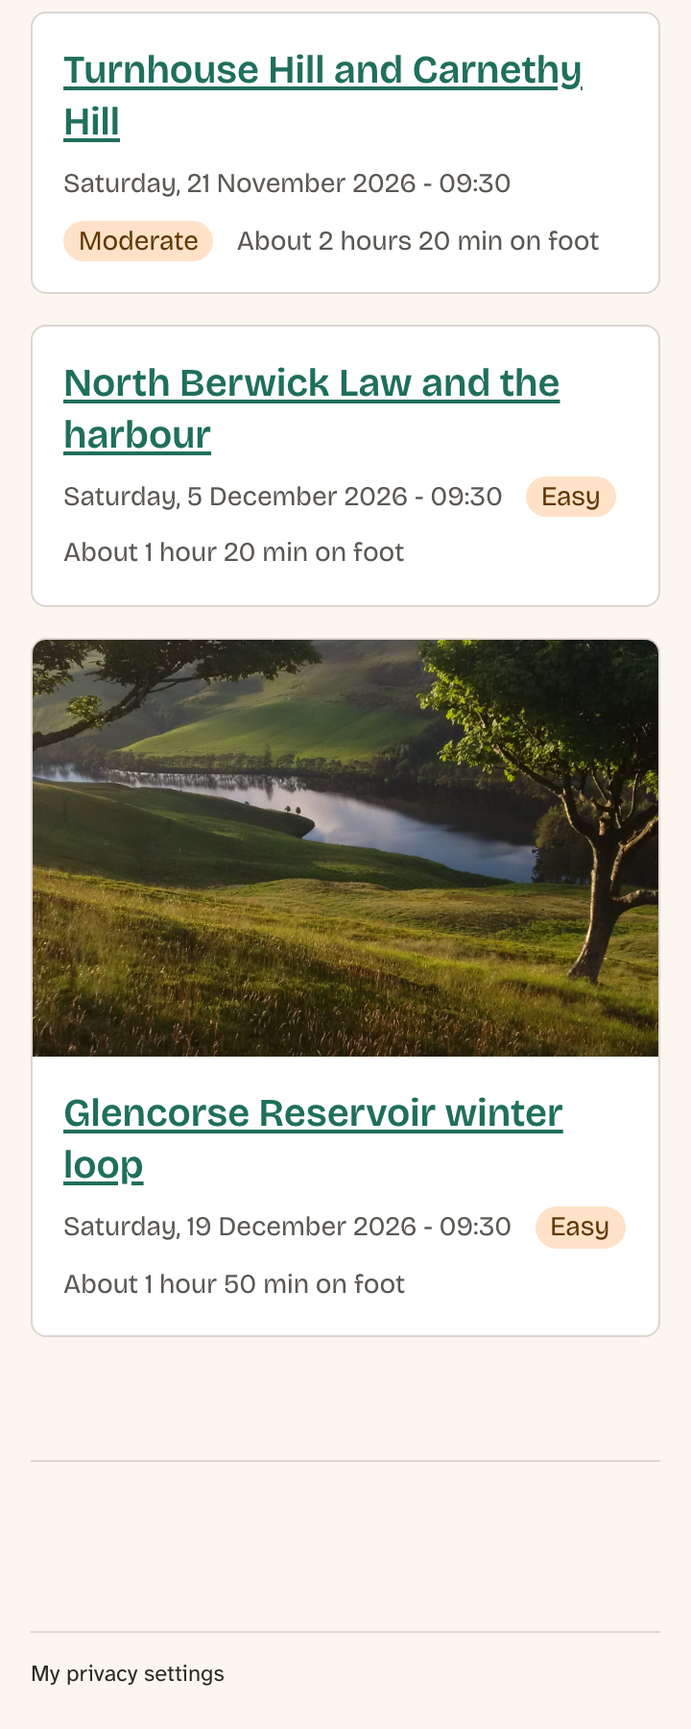
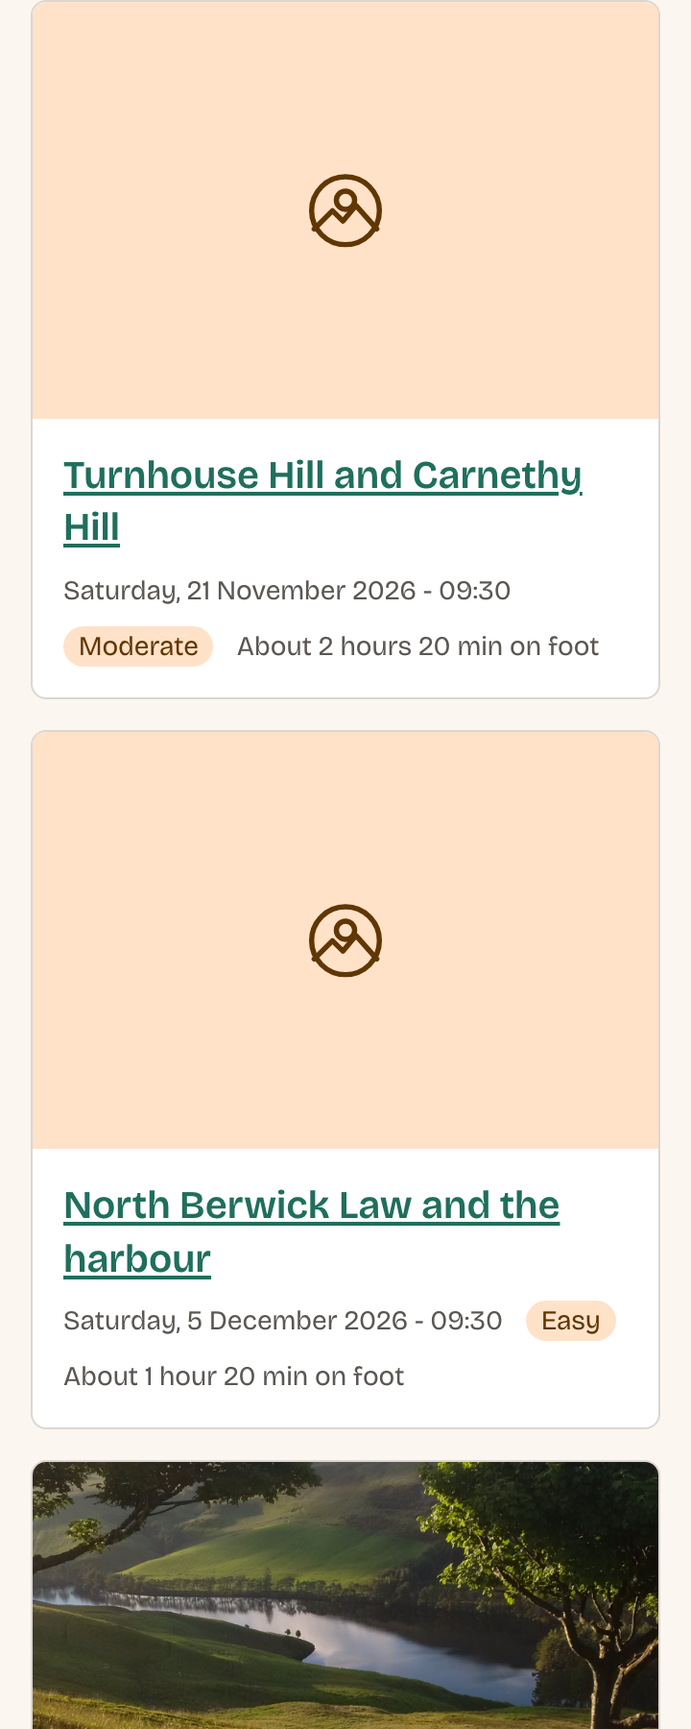
Chapter 13: a default photo for hikes without one
The Hike card always has a photo area. Without a photo, it draws the
club's default photo from Chapter 4 as inline SVG in the color roles, so
it follows dark mode, hidden from screen readers. On the core site
(steps 02 and 03) and in the Canvas card (step 04). The :has() rule that
made a photo-less card one column is gone. A new subsection says why the
fallback is in the component and not a default value on Book 1's media
field. The default photo is now CC BY-SA 4.0 or GPL-2.0-or-later.
Figures 13.2 to 13.5, 13.10 and 13.11 retaken.

diff --git a/code/chapter13/steps/02-variants/core/lens_trail/components/hike-card/hike-card.css b/code/chapter13/steps/02-variants/core/lens_trail/components/hike-card/hike-card.css
@@ -24,13 +24,20 @@
   .hike-card__photo {
     order: -1;
 
-    & img {
+    & :is(img, svg) {
       display: block;
       width: 100%;
       height: auto;
       aspect-ratio: 3 / 2;
       object-fit: cover;
     }
+  }
+
+  /* The default photo takes its colors from the color roles, so it follows
+     dark mode like the rest of the card. */
+  .hike-card__default-photo {
+    background: var(--color-tint);
+    color: var(--color-on-tint);
   }
 
   .hike-card__text {
@@ -66,7 +73,7 @@
      container query can't style the container itself, so it's the layout
      inside the card that changes. */
   @container (inline-size >= 30rem) {
-    [data-component-variant="beside"] .hike-card__layout:has(.hike-card__photo) {
+    [data-component-variant="beside"] .hike-card__layout {
       grid-template-columns: 2fr 3fr;
       align-items: start;
     }

diff --git a/code/chapter13/steps/03-styleguide/core/lens_trail/components/hike-card/hike-card.css b/code/chapter13/steps/03-styleguide/core/lens_trail/components/hike-card/hike-card.css
@@ -24,13 +24,20 @@
   .hike-card__photo {
     order: -1;
 
-    & img {
+    & :is(img, svg) {
       display: block;
       width: 100%;
       height: auto;
       aspect-ratio: 3 / 2;
       object-fit: cover;
     }
+  }
+
+  /* The default photo takes its colors from the color roles, so it follows
+     dark mode like the rest of the card. */
+  .hike-card__default-photo {
+    background: var(--color-tint);
+    color: var(--color-on-tint);
   }
 
   .hike-card__text {
@@ -66,7 +73,7 @@
      container query can't style the container itself, so it's the layout
      inside the card that changes. */
   @container (inline-size >= 30rem) {
-    [data-component-variant="beside"] .hike-card__layout:has(.hike-card__photo) {
+    [data-component-variant="beside"] .hike-card__layout {
       grid-template-columns: 2fr 3fr;
       align-items: start;
     }

diff --git a/book/13-single-directory-components.md b/book/13-single-directory-components.md
@@ -363,7 +363,7 @@ The contract grows by one slot and two **variants**:
  slots:
 +  photo:
 +    title: Photo
-+    description: The hike's photo, as an image Drupal has rendered. Optional.
++    description: The hike's photo, as an image Drupal has rendered. Optional. Without it, the card shows the club's default photo.
    facts:
      title: Facts
      description: The date, the difficulty and the walking time, rendered by Drupal.
@@ -384,7 +384,7 @@ A variant is a named version of the same component: same props, same slots, diff
 ```diff
 --- components/hike-card/hike-card.twig (before)
 +++ components/hike-card/hike-card.twig (after)
-@@ -3,17 +3,26 @@
+@@ -3,17 +3,38 @@
   * @file
   * The Hike card: a hike in a list.
   *
@@ -414,9 +414,21 @@ A variant is a named version of the same component: same props, same slots, diff
 +        {% endblock %}
 +      </div>
 +    </div>
-+    {% if photo %}
-+      <div class="hike-card__photo">{{ photo }}</div>
-+    {% endif %}
++    <div class="hike-card__photo">
++      {% if photo %}
++        {{ photo }}
++      {% else %}
++        {# No photo yet: the club's default photo, the logo on the tint color.
++           It's decoration, so screen readers skip it. #}
++        <svg class="hike-card__default-photo" viewBox="0 0 480 320" aria-hidden="true" focusable="false">
++          <g fill="none" stroke="currentColor" stroke-width="4" stroke-linejoin="round" stroke-linecap="round">
++            <circle cx="240" cy="160" r="26"/>
++            <circle cx="240" cy="152" r="7"/>
++            <path d="M216 174 L230 160 L238 168 L248 156 L264 174"/>
++          </g>
++        </svg>
++      {% endif %}
++    </div>
    </div>
  </article>
 ```
@@ -458,7 +470,19 @@ The node template hands over the photo and chooses the variant:
  {% endembed %}
 ```
 
-The photo is filled in the other way, as a value: `content.field_photo|render`. The `|render` is the empty-field trap from the chapter on Twig in depth again. A hike without a photo still has a `field_photo` key with cache information in it, which Twig counts as something. Rendered, it's an empty string, and the component's `{% if photo %}` leaves the photo's `div` out. That's two of the hikes on the test site.
+The photo is filled in the other way, as a value: `content.field_photo|render`. The `|render` is the empty-field trap from the chapter on Twig in depth again. A hike without a photo still has a `field_photo` key with cache information in it, which Twig counts as something. Rendered, it's an empty string, and the component's `{% if photo %}` sees nothing. That's two of the hikes on the test site.
+
+### When there's no photo
+
+What the card does then is the component's business. Leave the photo out, and a card without one is a different shape from its neighbors, with a hole where the design has a picture. So the design in Chapter 4 has a **default photo** for it: the club's logo in `color.on-tint` on `color.tint`. The component draws it in the `{% else %}`, in the diff above.
+
+Three choices in those few lines:
+
+- **Inline SVG, not an image file.** An `<img>` can't see the page's CSS, so a file would be sandstone in dark mode too. Inline, the SVG draws its lines in `currentColor`, and the CSS in the next section gives it the color roles (`.hike-card__default-photo`), so it follows the color scheme like the rest of the card.
+- **`aria-hidden="true"`.** The default photo says nothing about the hike, so it's decoration, and screen readers skip it. A real photo keeps its alt text.
+- **In the component, not in the content.** In the first book, the club's Photo field is a media reference, and Drupal's **Default image** setting only exists on plain image fields. A media reference can have a default value, but that's a real media item stored in every *new* hike: North Berwick would still have none, and the club's lists of photos would show the logo as one of them. The first book's chapter on media says so too. Missing content is something every component has to handle, so we handle it where the card is drawn.
+
+The design is in the book's repository as `design/default-photo.svg`, licensed as CC BY-SA 4.0 or GPL-2.0-or-later, so the theme can ship it.
 
 ### A card that knows its own width
 
@@ -493,13 +517,20 @@ Now the CSS. A media query asks how wide the *screen* is, but the card doesn't c
   .hike-card__photo {
     order: -1;
 
-    & img {
+    & :is(img, svg) {
       display: block;
       width: 100%;
       height: auto;
       aspect-ratio: 3 / 2;
       object-fit: cover;
     }
+  }
+
+  /* The default photo takes its colors from the color roles, so it follows
+     dark mode like the rest of the card. */
+  .hike-card__default-photo {
+    background: var(--color-tint);
+    color: var(--color-on-tint);
   }
 
   .hike-card__text {
@@ -535,7 +566,7 @@ Now the CSS. A media query asks how wide the *screen* is, but the card doesn't c
      container query can't style the container itself, so it's the layout
      inside the card that changes. */
   @container (inline-size >= 30rem) {
-    [data-component-variant="beside"] .hike-card__layout:has(.hike-card__photo) {
+    [data-component-variant="beside"] .hike-card__layout {
       grid-template-columns: 2fr 3fr;
       align-items: start;
     }
@@ -543,13 +574,12 @@ Now the CSS. A media query asks how wide the *screen* is, but the card doesn't c
 }
 ```
 
-`container-type: inline-size` makes the card a container, and `@container (inline-size >= 30rem)` asks about the nearest container around the element being styled. 30rem is Chapter 3's container switch. Three things here took us a try or two:
+`container-type: inline-size` makes the card a container, and `@container (inline-size >= 30rem)` asks about the nearest container around the element being styled. 30rem is Chapter 3's container switch. Two things here took us a try or two:
 
 - **A container can't query itself.** The card is the container, so a rule inside `@container` can style what's in the card, but not the card. That's why the grid is on the new `hike-card__layout` inside it.
 - **A container doesn't take its width from what's inside it.** In a normal block that makes no difference. But in a wrapper that shrinks to fit its content, as the styleguide's is later in this chapter, the card shrank to nothing. `inline-size: 100%` fixes that.
-- `:has(.hike-card__photo)` keeps a card without a photo in one column, instead of an empty one on the left.
 
-Container queries have been in every major browser since February 2023, and widely available on Baseline's scale since August 2025. `:has()` became widely available in June 2026.
+Container queries have been in every major browser since February 2023, and widely available on Baseline's scale since August 2025.
 
 Last, a little space between the rows of a list, in `css/layout.css`, until the chapter on Views gives lists their own layout:
 
@@ -573,8 +603,8 @@ Last, a little space between the rows of a list, in `css/layout.css`, until the 
 
 After a cache rebuild, the Next hikes block has photos, beside the text, because the block is in the wide content column:
 
-![The Next hikes block with three cards: two with a photo on the left and the text on the right, and North Berwick's card with no photo, text only](images/13-front-cards.png)
-*Figure 13.2: Photos beside the text, because the cards have room. North Berwick has no photo yet, and its card is one column*
+![The Next hikes block with three cards, each with a picture on the left and the text on the right; North Berwick's picture is the club's logo on light sandstone](images/13-front-cards.png)
+*Figure 13.2: Photos beside the text, because the cards have room. North Berwick has no photo yet, so it gets the default photo, and the cards keep their shape*
 
 ## One card, two headings
 
@@ -669,7 +699,7 @@ slots:
   facts: '<div class="hike-card__date"><time datetime="2026-12-19T09:30:00Z">Saturday, 19 December 2026 at 09:30</time></div><div class="hike-card__difficulty">Easy</div><div class="hike-card__walking-time">About 1 hour 50 min on foot</div>'
 ```
 
-The module's README calls these `.story.` files, but the code looks for `.demo.`, and only those worked when we tried. For the photo, we used the club's default photo, `design/default-photo.svg`, copied into the component's `demo` folder, because the club's photos aren't the theme's to ship. There are four demos in the step: photo beside, photo on top, no photo, and a long title.
+The module's README calls these `.story.` files, but the code looks for `.demo.`, and only those worked when we tried. For the photo, we used the club's default photo, `design/default-photo.svg`, copied into the component's `demo` folder, because the club's photos aren't the theme's to ship. The No photo demo has no photo at all, and shows the component's own default photo. There are four demos in the step: photo beside, photo on top, no photo, and a long title.
 
 ![The styleguide showing the Hike card with the default photo on the left and the text on the right](images/13-styleguide-beside.png)
 *Figure 13.6: The Photo beside demo. Make the window narrower, and the photo moves on top*
@@ -820,7 +850,7 @@ The markup, with the club's tokens as Tailwind classes:
   moderate: 'Moderate'|t,
   hard: 'Hard'|t,
 } %}
-{% set beside = layout|default('top') == 'beside' and photo %}
+{% set beside = layout|default('top') == 'beside' %}
 <article{{ attributes.addClass('@container w-full overflow-hidden rounded-lg border border-club-border bg-club-surface') }}>
   <div class="grid{{ beside ? ' @[30rem]:grid-cols-[2fr_3fr] @[30rem]:items-start' }}">
     <div class="p-club-s">
@@ -837,12 +867,21 @@ The markup, with the club's tokens as Tailwind classes:
     </div>
     {% if photo.src %}
       <img src="{{ photo.src }}" alt="{{ photo.alt }}" width="{{ photo.width }}" height="{{ photo.height }}" loading="lazy" class="-order-1 aspect-[3/2] w-full object-cover">
+    {% else %}
+      {# No photo yet: the club's default photo, as on the core site. #}
+      <svg class="-order-1 aspect-[3/2] w-full bg-club-tint text-club-on-tint" viewBox="0 0 480 320" aria-hidden="true" focusable="false">
+        <g fill="none" stroke="currentColor" stroke-width="4" stroke-linejoin="round" stroke-linecap="round">
+          <circle cx="240" cy="160" r="26"/>
+          <circle cx="240" cy="152" r="7"/>
+          <path d="M216 174 L230 160 L238 168 L248 156 L264 174"/>
+        </g>
+      </svg>
     {% endif %}
   </div>
 </article>
 ```
 
-The structure is the core site's, so the two cards stay recognizably the same thing. `@container` and `@[30rem]:` are Tailwind's container queries, the same rule as ours, written as classes. The date arrives as text, and `|date('U')|format_date('long')` turns it into a date in the site's language. And the difficulty's labels go through `|t`, so the Spanish site can translate them.
+The structure is the core site's, so the two cards stay recognizably the same thing. `@container` and `@[30rem]:` are Tailwind's container queries, the same rule as ours, written as classes. The date arrives as text, and `|date('U')|format_date('long')` turns it into a date in the site's language. And the difficulty's labels go through `|t`, so the Spanish site can translate them. Without a photo, the card draws the same default photo as on the core site, with `bg-club-tint` and `text-club-on-tint`.
 
 Tailwind only builds the classes it finds in the theme's files, so the new classes need a build, as in the chapter on the Drupal CMS theme:
 
@@ -863,13 +902,13 @@ We gave the Home page a Next hikes section:
 
 1. Drag a **Section** from the library to below the hero. In its settings, set **Grid layout** to **33-33-33** and **Columns on mobile** to **1**, and turn on **Show header region**.
 2. Drag a **Heading** into the section's **Header**, with the text **Next hikes** and the **Heading level** **2**.
-3. Drag three **Hike cards** into the section's **Grid**, and fill them in with the first book's next three hikes. The Glencorse card gets the site's photo of Glencorse Reservoir from the media library. The other two have no photo on this site.
+3. Drag three **Hike cards** into the section's **Grid**, and fill them in with the first book's next three hikes. The Glencorse card gets the site's photo of Glencorse Reservoir from the media library. The other two have no photo on this site, and get the default photo.
 4. Click **Review changes**, and publish the page from there.
 
 ![The Canvas editor: the Layers panel shows the Section with its Heading and three Hike cards, and the Settings panel shows the third card's form: Title, Link, Heading level, Layout, Photo, Date and time, and Difficulty](images/13-canvas-form.png)
 *Figure 13.9: Every field in the form comes from the component's schema*
 
-![The Next hikes section on the Home page: three cards, the third with a photo of Glencorse Reservoir](images/13-cms-home.png)
+![The Next hikes section on the Home page: three cards, the first two with the default photo, the club's logo on light sandstone, and the third with a photo of Glencorse Reservoir](images/13-cms-home.png)
 *Figure 13.10: The Next hikes section on the Drupal CMS site*
 
 ![The same section on a phone, with the cards one below the other](images/13-cms-home-phone.png)
@@ -885,6 +924,7 @@ You can now:
 - describe a component's props in JSON Schema, and choose between a prop and a slot;
 - call a component from a template with `embed` or `include`, and know why `only` breaks `embed`;
 - give a component variants, and read the variant from `data-component-variant` in CSS;
+- give a component a fallback for content that's missing, here a default photo that follows dark mode;
 - make a component fit any column with a container query;
 - explain why a node can't have two different headings in one view mode, and fix it with another view mode;
 - preview components with SDC Styleguide and demo files;
@@ -905,5 +945,5 @@ The Hike card is now one folder on each site. It shows up in the Next hikes bloc
 - Drupal.org: [Single-Directory Components](https://www.drupal.org/docs/develop/theming-drupal/using-single-directory-components) and [Annotated example component.yml](https://www.drupal.org/docs/develop/theming-drupal/using-single-directory-components/annotated-example-componentyml).
 - [JSON Schema: Understanding JSON Schema](https://json-schema.org/understanding-json-schema/), for everything a prop can say.
 - The modules: [SDC Styleguide](https://www.drupal.org/project/sdc_styleguide), [Storybook](https://www.drupal.org/project/storybook) and [Canvas](https://www.drupal.org/project/canvas).
-- MDN: [Container queries](https://developer.mozilla.org/en-US/docs/Web/CSS/CSS_containment/Container_queries) and [`:has()`](https://developer.mozilla.org/en-US/docs/Web/CSS/:has).
+- MDN: [Container queries](https://developer.mozilla.org/en-US/docs/Web/CSS/CSS_containment/Container_queries).
 - Tailwind CSS: [Container queries](https://tailwindcss.com/docs/responsive-design#container-queries).

diff --git a/manuscript/13-single-directory-components.md b/manuscript/13-single-directory-components.md
@@ -142,7 +142,19 @@ The node template hands over the photo and chooses the variant:
 
 <!-- diff: code/chapter13/steps/01-component/core/lens_trail/templates/content/node--hike--card.html.twig code/chapter13/steps/02-variants/core/lens_trail/templates/content/node--hike--card.html.twig as=templates/content/node--hike--card.html.twig -->
 
-The photo is filled in the other way, as a value: `content.field_photo|render`. The `|render` is the empty-field trap from the chapter on Twig in depth again. A hike without a photo still has a `field_photo` key with cache information in it, which Twig counts as something. Rendered, it's an empty string, and the component's `{% if photo %}` leaves the photo's `div` out. That's two of the hikes on the test site.
+The photo is filled in the other way, as a value: `content.field_photo|render`. The `|render` is the empty-field trap from the chapter on Twig in depth again. A hike without a photo still has a `field_photo` key with cache information in it, which Twig counts as something. Rendered, it's an empty string, and the component's `{% if photo %}` sees nothing. That's two of the hikes on the test site.
+
+### When there's no photo
+
+What the card does then is the component's business. Leave the photo out, and a card without one is a different shape from its neighbors, with a hole where the design has a picture. So the design in Chapter 4 has a **default photo** for it: the club's logo in `color.on-tint` on `color.tint`. The component draws it in the `{% else %}`, in the diff above.
+
+Three choices in those few lines:
+
+- **Inline SVG, not an image file.** An `<img>` can't see the page's CSS, so a file would be sandstone in dark mode too. Inline, the SVG draws its lines in `currentColor`, and the CSS in the next section gives it the color roles (`.hike-card__default-photo`), so it follows the color scheme like the rest of the card.
+- **`aria-hidden="true"`.** The default photo says nothing about the hike, so it's decoration, and screen readers skip it. A real photo keeps its alt text.
+- **In the component, not in the content.** In the first book, the club's Photo field is a media reference, and Drupal's **Default image** setting only exists on plain image fields. A media reference can have a default value, but that's a real media item stored in every *new* hike: North Berwick would still have none, and the club's lists of photos would show the logo as one of them. The first book's chapter on media says so too. Missing content is something every component has to handle, so we handle it where the card is drawn.
+
+The design is in the book's repository as `design/default-photo.svg`, licensed as CC BY-SA 4.0 or GPL-2.0-or-later, so the theme can ship it.
 
 ### A card that knows its own width
 
@@ -150,13 +162,12 @@ Now the CSS. A media query asks how wide the *screen* is, but the card doesn't c
 
 <!-- include: code/chapter13/steps/02-variants/core/lens_trail/components/hike-card/hike-card.css as=components/hike-card/hike-card.css -->
 
-`container-type: inline-size` makes the card a container, and `@container (inline-size >= 30rem)` asks about the nearest container around the element being styled. 30rem is Chapter 3's container switch. Three things here took us a try or two:
+`container-type: inline-size` makes the card a container, and `@container (inline-size >= 30rem)` asks about the nearest container around the element being styled. 30rem is Chapter 3's container switch. Two things here took us a try or two:
 
 - **A container can't query itself.** The card is the container, so a rule inside `@container` can style what's in the card, but not the card. That's why the grid is on the new `hike-card__layout` inside it.
 - **A container doesn't take its width from what's inside it.** In a normal block that makes no difference. But in a wrapper that shrinks to fit its content, as the styleguide's is later in this chapter, the card shrank to nothing. `inline-size: 100%` fixes that.
-- `:has(.hike-card__photo)` keeps a card without a photo in one column, instead of an empty one on the left.
 
-Container queries have been in every major browser since February 2023, and widely available on Baseline's scale since August 2025. `:has()` became widely available in June 2026.
+Container queries have been in every major browser since February 2023, and widely available on Baseline's scale since August 2025.
 
 Last, a little space between the rows of a list, in `css/layout.css`, until the chapter on Views gives lists their own layout:
 
@@ -164,8 +175,8 @@ Last, a little space between the rows of a list, in `css/layout.css`, until the 
 
 After a cache rebuild, the Next hikes block has photos, beside the text, because the block is in the wide content column:
 
-![The Next hikes block with three cards: two with a photo on the left and the text on the right, and North Berwick's card with no photo, text only](images/13-front-cards.png)
-*Figure 13.2: Photos beside the text, because the cards have room. North Berwick has no photo yet, and its card is one column*
+![The Next hikes block with three cards, each with a picture on the left and the text on the right; North Berwick's picture is the club's logo on light sandstone](images/13-front-cards.png)
+*Figure 13.2: Photos beside the text, because the cards have room. North Berwick has no photo yet, so it gets the default photo, and the cards keep their shape*
 
 ## One card, two headings
 
@@ -215,7 +226,7 @@ It adds **/styleguide/explorer**, for people with the **Use the SDC Explorer** p
 
 <!-- include: code/chapter13/steps/03-styleguide/core/lens_trail/components/hike-card/hike-card.demo.beside.yml as=components/hike-card/hike-card.demo.beside.yml -->
 
-The module's README calls these `.story.` files, but the code looks for `.demo.`, and only those worked when we tried. For the photo, we used the club's default photo, `design/default-photo.svg`, copied into the component's `demo` folder, because the club's photos aren't the theme's to ship. There are four demos in the step: photo beside, photo on top, no photo, and a long title.
+The module's README calls these `.story.` files, but the code looks for `.demo.`, and only those worked when we tried. For the photo, we used the club's default photo, `design/default-photo.svg`, copied into the component's `demo` folder, because the club's photos aren't the theme's to ship. The No photo demo has no photo at all, and shows the component's own default photo. There are four demos in the step: photo beside, photo on top, no photo, and a long title.
 
 ![The styleguide showing the Hike card with the default photo on the left and the text on the right](images/13-styleguide-beside.png)
 *Figure 13.6: The Photo beside demo. Make the window narrower, and the photo moves on top*
@@ -265,7 +276,7 @@ The markup, with the club's tokens as Tailwind classes:
 
 <!-- include: code/chapter13/steps/04-canvas/cms/mercury/components/hike-card/hike-card.twig as=components/hike-card/hike-card.twig -->
 
-The structure is the core site's, so the two cards stay recognizably the same thing. `@container` and `@[30rem]:` are Tailwind's container queries, the same rule as ours, written as classes. The date arrives as text, and `|date('U')|format_date('long')` turns it into a date in the site's language. And the difficulty's labels go through `|t`, so the Spanish site can translate them.
+The structure is the core site's, so the two cards stay recognizably the same thing. `@container` and `@[30rem]:` are Tailwind's container queries, the same rule as ours, written as classes. The date arrives as text, and `|date('U')|format_date('long')` turns it into a date in the site's language. And the difficulty's labels go through `|t`, so the Spanish site can translate them. Without a photo, the card draws the same default photo as on the core site, with `bg-club-tint` and `text-club-on-tint`.
 
 Tailwind only builds the classes it finds in the theme's files, so the new classes need a build, as in the chapter on the Drupal CMS theme:
 
@@ -282,13 +293,13 @@ We gave the Home page a Next hikes section:
 
 1. Drag a **Section** from the library to below the hero. In its settings, set **Grid layout** to **33-33-33** and **Columns on mobile** to **1**, and turn on **Show header region**.
 2. Drag a **Heading** into the section's **Header**, with the text **Next hikes** and the **Heading level** **2**.
-3. Drag three **Hike cards** into the section's **Grid**, and fill them in with the first book's next three hikes. The Glencorse card gets the site's photo of Glencorse Reservoir from the media library. The other two have no photo on this site.
+3. Drag three **Hike cards** into the section's **Grid**, and fill them in with the first book's next three hikes. The Glencorse card gets the site's photo of Glencorse Reservoir from the media library. The other two have no photo on this site, and get the default photo.
 4. Click **Review changes**, and publish the page from there.
 
 ![The Canvas editor: the Layers panel shows the Section with its Heading and three Hike cards, and the Settings panel shows the third card's form: Title, Link, Heading level, Layout, Photo, Date and time, and Difficulty](images/13-canvas-form.png)
 *Figure 13.9: Every field in the form comes from the component's schema*
 
-![The Next hikes section on the Home page: three cards, the third with a photo of Glencorse Reservoir](images/13-cms-home.png)
+![The Next hikes section on the Home page: three cards, the first two with the default photo, the club's logo on light sandstone, and the third with a photo of Glencorse Reservoir](images/13-cms-home.png)
 *Figure 13.10: The Next hikes section on the Drupal CMS site*
 
 ![The same section on a phone, with the cards one below the other](images/13-cms-home-phone.png)
@@ -306,6 +317,7 @@ You can now:
 - describe a component's props in JSON Schema, and choose between a prop and a slot;
 - call a component from a template with `embed` or `include`, and know why `only` breaks `embed`;
 - give a component variants, and read the variant from `data-component-variant` in CSS;
+- give a component a fallback for content that's missing, here a default photo that follows dark mode;
 - make a component fit any column with a container query;
 - explain why a node can't have two different headings in one view mode, and fix it with another view mode;
 - preview components with SDC Styleguide and demo files;
@@ -326,5 +338,5 @@ The Hike card is now one folder on each site. It shows up in the Next hikes bloc
 - Drupal.org: [Single-Directory Components](https://www.drupal.org/docs/develop/theming-drupal/using-single-directory-components) and [Annotated example component.yml](https://www.drupal.org/docs/develop/theming-drupal/using-single-directory-components/annotated-example-componentyml).
 - [JSON Schema: Understanding JSON Schema](https://json-schema.org/understanding-json-schema/), for everything a prop can say.
 - The modules: [SDC Styleguide](https://www.drupal.org/project/sdc_styleguide), [Storybook](https://www.drupal.org/project/storybook) and [Canvas](https://www.drupal.org/project/canvas).
-- MDN: [Container queries](https://developer.mozilla.org/en-US/docs/Web/CSS/CSS_containment/Container_queries) and [`:has()`](https://developer.mozilla.org/en-US/docs/Web/CSS/:has).
+- MDN: [Container queries](https://developer.mozilla.org/en-US/docs/Web/CSS/CSS_containment/Container_queries).
 - Tailwind CSS: [Container queries](https://tailwindcss.com/docs/responsive-design#container-queries).

diff --git a/PROJECT-LOG.md b/PROJECT-LOG.md
@@ -33,7 +33,6 @@ Read this first when picking the work up in a new session.
 - **Chapter 10 reviewed** by the author (2026-11-09) on **`feature/chapter-10-preprocess`**, ready to merge: `manuscript/10-preprocess-functions-and-theme-settings.md`, 3 figures, two steps (`01-walking-time`, `02-color-scheme`), core site only.
 - **Chapter 11 reviewed** by the author (2026-11-09) on **`feature/chapter-11-twig-in-depth`**, ready to merge: `manuscript/11-twig-in-depth.md`, 2 figures, no step (the theme doesn't change), core site tests only plus Devel on the CMS site.
 - **Chapter 12 reviewed** by the author (2026-11-10) on **`feature/chapter-12-javascript`**, ready to merge: `manuscript/12-javascript-the-drupal-way.md`, 4 figures, one step (`01-toggle`), core site only.
-- **The folder** is still `themeing-drupal`. It will be renamed to `theming-drupal` (the author, 2026-11-07); do it outside a Claude session that has it as its working directory.
 - **The test sites** (DDEV, outside this repository), built by `tools/setup.sh` from Book 1's export at the commit in `data/book1.yml` (2026-11-07: `223b3ca`, on Book 1's `chore/export-site-recipe`, not merged yet):
   - `~/websites/open-university/lens-and-trail-theme`: Book 1's core site (Drupal 12.0.0-beta2, Olivero). `https://lens-and-trail-theme.ddev.site:8443`, `admin` / `12345`.
   - `~/websites/open-university/lens-and-trail-cms-theme`: Book 1's Drupal CMS site (Drupal CMS 2.2.8 on Drupal 11.4.11, Mercury). `https://lens-and-trail-cms-theme.ddev.site:8443`, `admin` / `12345`.
@@ -107,6 +106,7 @@ Made on 2026-11-07, at the start.
 
 ## History
 
+- **2026-11-12**: Chapter 13, the default photo (the author: a missing photo breaks the layout; option 4 of four: a fallback in the component, plus a note in Book 1). The Hike card always has a photo area: without a photo it draws the club's default photo as inline SVG (`currentColor` on `color.tint`/`color.on-tint`, so it follows dark mode; `aria-hidden`), in steps 02 and 03 and in the Canvas card (step 04, with `bg-club-tint text-club-on-tint`). The `:has(.hike-card__photo)` rule and its text are gone. New subsection *When there's no photo* (why not Book 1's field default: Photo is a media reference, so no Default image, and a default media item only fills new hikes and shows up in photo lists). Figures 13.2 to 13.5, 13.10 and 13.11 retaken. The default photo is now CC BY-SA 4.0 or GPL-2.0-or-later (the author: GPL is fine). Book 1's note in its Chapter 9 is still to write ("The first book's chapter on media says so too" depends on it).
 - **2026-11-10**: **Chapter 13 drafted**, *Single Directory Components* (the pilot); tested on the core site (the component, `node.label` vs `label`, a prop error with assertions on, `include`, `embed ... only`, the photo slot and the empty-field trap, the container query at 360, 800 and 1280, the render cache shared between pages in one view mode, the `card_list` view mode, keyboard, 320 pixels, forced colors, contrast, dark mode, SDC Styleguide's four demos, the stretched link answer) and on the CMS site (Canvas accepts the component, the editor's form, the page at 1280 and 360). Not walked by hand: the Canvas steps (placed by `code/chapter13/site/cms.php`), and the core site building (`code/chapter13/site/core.php`).
 - **2026-11-10**: Chapter 3 says Site default too.
 - **2026-11-10**: **Chapter 12 reviewed**. Label renamed to Site default (code, text, Appendix B, Figures 12.1 to 12.4 retaken; Spanish *Predeterminado del sitio*). On a phone the label now wraps to a second line.
@@ -152,7 +152,7 @@ What each chapter adds to the two themes, so later chapters and exercises don't 
 
 - **`13-canvas-library.png` and `13-canvas-form.png`**: one-off Playwright script (logged in, clicks in the Canvas editor), not in `tools/screenshots.py`.
 - **Site building in a step**: Chapter 13's `code/chapter13/site/core.php` and `cms.php` are the first scripts for what the reader does by hand; the `use-step.sh` helper idea below could run them.
-- **The default photo's license**: `components/hike-card/demo/default-photo.svg` is copied from `design/default-photo.svg`, which says CC BY-SA 4.0, into a GPL theme. Check with the author (the theme's `screenshot.png` was made GPL-clean on purpose).
+- ~~**The default photo's license**~~ Done (the author, 2026-11-12: GPL is fine): `design/default-photo.svg` and its demo copy are CC BY-SA 4.0 or GPL-2.0-or-later.
 - **`use-step.sh` and `node_modules`**: its `rsync --delete` removes the CMS theme's `node_modules`. Add an exclude.
 
 - **`sdc_critical_css`** (looked at 2026-11-09, the author asked): inlines the CSS of chosen components and global files. Not for Chapter 8: 1.0.1 requires Drupal ^10 || ^11 (the core site is on 12), the core site has no SDCs before Chapter 13, about 20 sites and one maintainer, and its effect on cascade layer order is untested. Reconsider as a box once it supports Drupal 12.
@@ -187,5 +187,5 @@ What each chapter adds to the two themes, so later chapters and exercises don't 
 - **A map on the hike page** (the author, 2026-11-07): at least the starting point, at best the track. A quick how-to in this book (OpenStreetMap; check Geofield and Leaflet for Drupal 12, or a static map image with a link). If Book 1 needs a field for it, that's an appendix or an expert exercise there (the module chapter, perhaps).
 - **The galleries' lightbox**: Colorbox and PhotoSwipe have no Drupal 12 release (2026-11-07). Re-check in the images chapter; the fallback is a `<dialog>` lightbox in the theme.
 - **Turnhouse hike without a leader**: on the rebuilt core site, *Turnhouse Hill and Carnethy Hill* has no Hike leader (Book 1 gave it admin; the rebuild moved admin's hikes to Jordi, but not this one?). Check Book 1's export; Chapter 3's figures don't name a leader.
-- **A default photo for hikes without one (Book 1)**: the author, 2026-11-08: "we actually should have 'no-photo' available as default". The hike's `field_photo` is a media reference, so Drupal's image-field "Default image" doesn't apply; one way is a media item with `design/default-photo.svg` (as a PNG or JPEG) set as the field's default value, which only fills new hikes (North Berwick needs editing). The other is a fallback in the theme. Decide with Book 1; a dark version too (Chapter 4's exercise 3).
+- ~~**A default photo for hikes without one (Book 1)**~~ Decided (the author, 2026-11-12): a fallback in the theme's component (Chapter 13), and a note in Book 1's Chapter 9 on why the media field has no Default image. Still to do: that note in Book 1.
 - **Book 1's Chapter 16**: update its `%%` note on the companion book's title and link when this book has a home.
